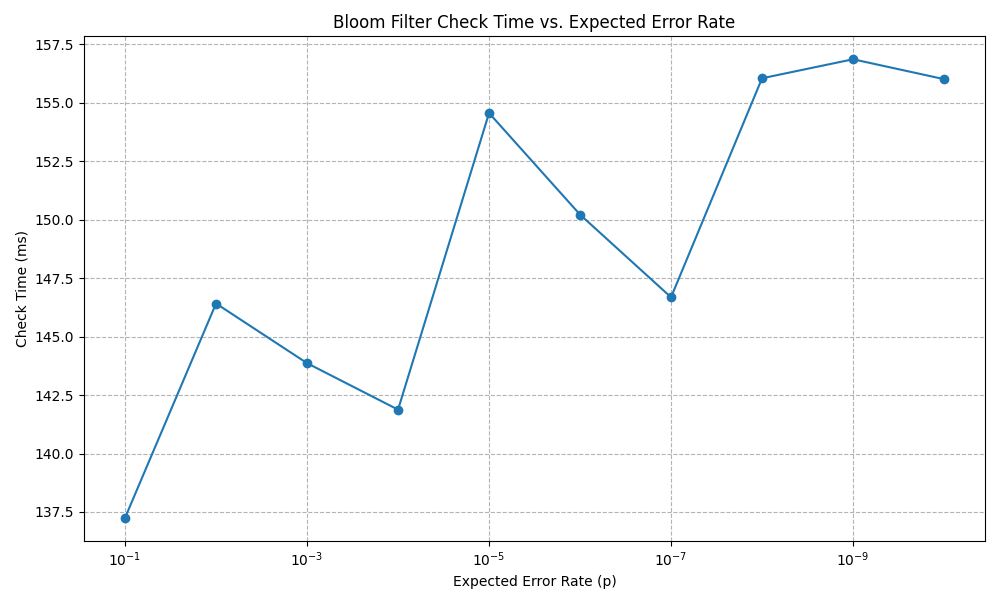
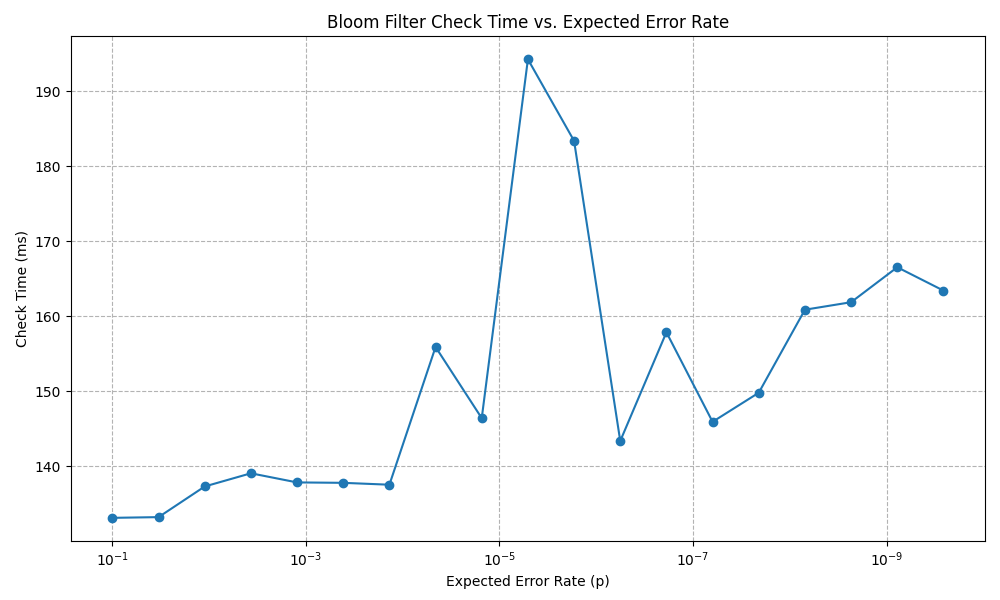
update

diff --git a/main.go b/main.go
@@ -75,7 +75,7 @@ func testBloomFilter(ctx context.Context, rdb *redis.Client, config testConfig, 
 
 	// Check for existing items.
 	pipe = rdb.Pipeline()
-	for i := 0; i < insertCount; i++ {
+	for i := range insertCount {
 		pipe.Do(ctx, "BF.EXISTS", filterName, fmt.Sprintf("item%d", i))
 	}
 	cmds, err := pipe.Exec(ctx)
@@ -92,7 +92,7 @@ func testBloomFilter(ctx context.Context, rdb *redis.Client, config testConfig, 
 
 	// Check for non-existing items (potential false positives).
 	pipe = rdb.Pipeline()
-	for i := 0; i < testSize; i++ {
+	for i := range testSize {
 		pipe.Do(ctx, "BF.EXISTS", filterName, fmt.Sprintf("fakeitem%d", i))
 	}
 	cmds, err = pipe.Exec(ctx)
@@ -162,8 +162,7 @@ func TestRealAmount_fpRate(ctx context.Context, rdb *redis.Client) {
 
 	// Define a range of realAmount values to test
 	realAmounts := []int{
-		1000, 2000, 3000, 4000, 5000, 6000, 7000, 8000, 9000, 10000,
-		11000, 12000, 13000, 14000, 15000, 16000, 17000, 18000, 19000, 20000,
+		1000, 10000, 50000, 100000, 500000, 1000000,
 	} // Example values
 
 	for _, realAmount := range realAmounts {
@@ -260,7 +259,7 @@ func TestErrRateVsCheckTime(ctx context.Context, rdb *redis.Client) {
 	for _, n := range ns {
 		for p := 0.1; p >= 0.0000000001; {
 			testConfigs = append(testConfigs, testConfig{n, p})
-			p /= 5
+			p /= 3
 		}
 	}
 
@@ -291,7 +290,7 @@ func main() {
 		return
 	}
 
-	TestErrRateVsMemUsage(ctx, rdb)
+	// TestErrRateVsMemUsage(ctx, rdb)
 	TestRealAmount_fpRate(ctx, rdb)
 	TestErrRateVsCheckTime(ctx, rdb)
 }
